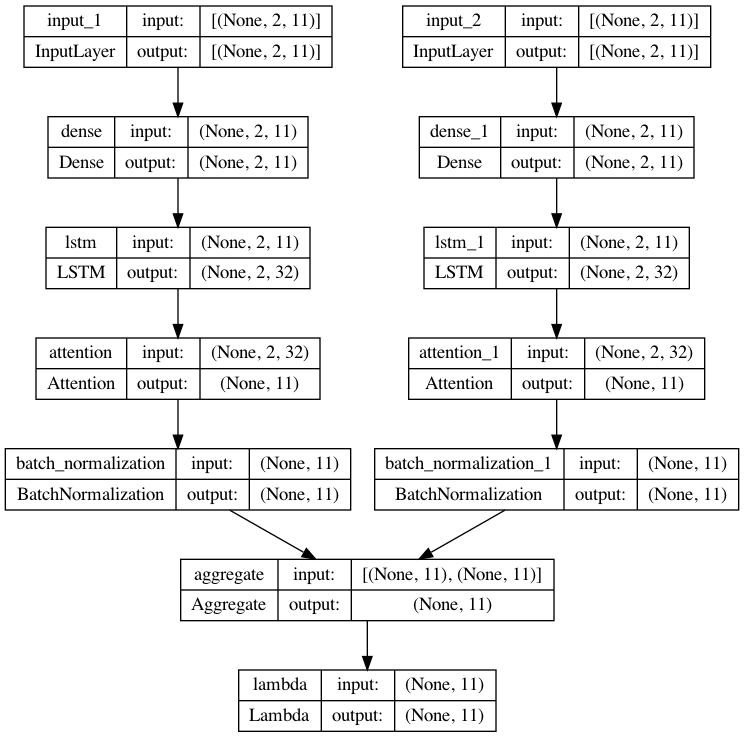
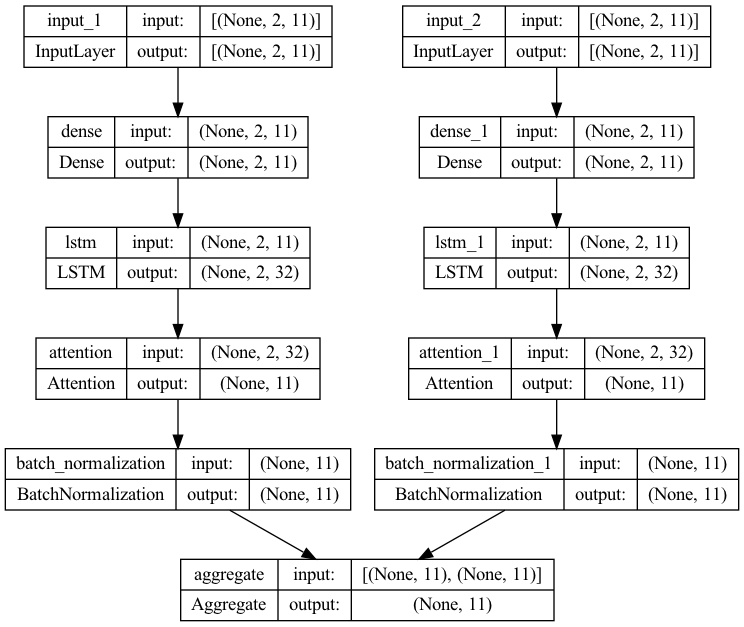
add code for data transformation before data axis context

Changed region(s): [[0.0, 0.0, 1.0, 1.0]]

diff --git a/main4.py b/main4.py
@@ -1,24 +1,24 @@
 from multiprocessing.dummy import active_children
 import os
+from re import I
 import sys
 import logging
 import argparse
 import json
 import pandas as pd
 import numpy as np
-from pkg_resources import add_activation_listener
 
 from keras.layers import Input
 from keras.layers import Dense
 from keras.layers import LSTM
 from keras.layers import BatchNormalization
-from keras.layers import Lambda
+from keras.layers import Lambda, Concatenate, Reshape
 from keras.layers import MultiHeadAttention
-from keras.models import Model
+from keras.models import Model 
 
 from keras.utils.vis_utils import plot_model
 
-from attention import Attention
+from myattention import Attention
 from layers import Aggregate
 from load import load_data, load_cla_data
 
@@ -48,24 +48,16 @@ def train(model):
 def transform_features(features, ticker_size):
     transformed  = np.zeros(params['sample_size'], ticker_size, params['feature_dim'],
                               dtype=np.float32)
-
-    print(features)
     # print(features)
     # context_vector_size = features.shape[1]
     # sampe_size = params['sampe_size']
     # print('sample_size', params['sampe_size'])
-    # for i in range(params['ticker_size']):
-    #     for j in range(params['sample_size']):
-    #         transformed[i, j] = features
-
-
-
-    # for i in range(params['sample_size']):
-    #     stock_context_vector = []
-    #     for j in range(ticker_size, ticker_size):
-    #         temp = features[i+j]
-    #         stock_context_vector.append(temp)
-    #     transformed = np.add(transformed, stock_context_vector)
+    for i in range(params['sample_size']):
+        stock_context_vector = []
+        for j in range(ticker_size, ticker_size):
+            temp = features[i+j]
+            stock_context_vector.append(temp)
+        transformed = np.add(transformed, stock_context_vector)
     return transformed
 
 def construct_model():
@@ -73,24 +65,38 @@ def construct_model():
     stock_input = Input(shape=(args.time_steps, params['feature_dim']))
 
     index_model = time_axis_attention(index_input, params['feature_dim'], args.units)
-    # index_model = Model(inputs=index_input, outputs=index_model)
-    stock_model = time_axis_attention(stock_input, params['feature_dim'], args.units)
-    # stock_model = Model(inputs=stock_input, outputs=stock_model)
 
-    # context_aggregation = Aggregate(params['feature_dim'])([index_model.output, stock_model.output])
-    context_aggregation = Aggregate(params['feature_dim'])([index_model, stock_model])
+    stock_models = [None]*params['ticker_size']
+    context_aggs= [None]*params['ticker_size']
+    context_agg_models = [None]*params['ticker_size']
+    
+    for i in range(params['ticker_size']):
+        stock_models[i] = time_axis_attention(stock_input, params['feature_dim'], args.units)
+        context_aggs[i] = Aggregate(32)([index_model, stock_models[i]])
+        # context_agg_models[i] = Model(inputs=[index_input, stock_input], outputs=context_aggs[i])
+
+    last_context_agg_model = Model(inputs=[index_input, stock_input], outputs=context_aggs[i])
+    plot_model(last_context_agg_model, to_file='contex_agg.png', show_shapes=True, show_layer_names=True)
+    
+    c_model = context_aggs[0]
+    for i in range(1, len(context_agg_models)):
+        c_model = Concatenate()([c_model, context_aggs[i]])
+
+    # Data Transformation to H (d*n)
+    assert(c_model.shape[1] == params['ticker_size']*args.units)
+    print(c_model.shape)
+    # data axis context
+    c_model = Reshape((params['ticker_size'], args.units))(c_model)
+    print(c_model.shape)
+
+    # Data Axis context
+    mha = MultiHeadAttention(num_heads=2, key_dim=2)(c_model)
+    #Nonlinear Transformation.
 
 
-    # transformed = Lambda(transform_features, output_shape=(params['sampe_size'], params['ticker_size'], params['feature_dim']), arguments={'ticker_size':params['ticker_size']})(context_aggregation)
-    # transformed = Lambda(transform_features, arguments={'ticker_size':params['ticker_size']})(context_aggregation)
-
-    # data_axis_attention = MultiHeadAttention()(context_aggregation)
-    # outputs = Dense(1, activation='sigmoid')(data_axis_attention)
-
-    # model = Model(inputs=[index_model.input, stock_model.input], outputs=context_aggregation)
-    model = Model(inputs=[index_input, stock_input], outputs=context_aggregation)
-    model.compile(loss='mae', optimizer='adam')
-    plot_model(model, to_file='model_plot2.png', show_shapes=True, show_layer_names=True)
+    model = mha
+    # model.compile(loss='mae', optimizer='adam')
+    plot_model(model, to_file='model_plot4.png', show_shapes=True, show_layer_names=True)
 
     return model
 
@@ -107,7 +113,7 @@ if __name__ == '__main__':
     parser.add_argument('-p', '--path', help='path of data', type=str,
                         default='./data/kdd17')
     parser.add_argument('-t', '--time_steps', help='length of history', type=int,
-                        default=2)
+                        default=5)
     parser.add_argument('-u', '--units', help='number of hidden units in lstm',
                         type=int, default=32)
     parser.add_argument('-e', '--epochs', help='epochs', type=int, default=5)
@@ -134,7 +140,7 @@ if __name__ == '__main__':
         "feature_dim": 11,
         "ticker_size": 50,
         "batch_size": 2,
-        "sampe_size": 2,
+        "sample_size": 1980,
     }
-    model = construct_model()
-    train(model)
+    construct_model()
+    # train(model)

diff --git a/main3.py b/main3.py
@@ -19,7 +19,7 @@ from keras.models import Model
 
 from keras.utils.vis_utils import plot_model
 
-from attention import Attention
+from myattention import Attention
 from layers import Aggregate
 from load import load_data, load_cla_data
 
@@ -69,19 +69,29 @@ def construct_model():
     index_model = Model(inputs=index_input, outputs=index_model)
 
     stock_models = [None]*params['ticker_size']
-    context_aggregations= [None]*params['ticker_size']
-    time_axis_models = [None]*params['ticker_size']
-
-    transformed = np.empty([params['sample_size'], params['ticker_size']])
-
-    print(transformed)
+    context_aggs= [None]*params['ticker_size']
+    context_agg_models = [None]*params['ticker_size']
+    
     for i in range(params['ticker_size']):
         stock_models[i] = time_axis_attention(stock_input, params['feature_dim'], args.units)
         stock_models[i] = Model(inputs=stock_input, outputs=stock_models[i])
-        context_aggregations[i] = Aggregate(32)([index_model.output, stock_models[i].output])
-        for j in range(params['sample_size']):
-            print(Lambda(lambda x: x[j,:])(context_aggregations[i]))
-            # transformed[j,i] = Lambda(lambda x: x[j,:])(context_aggregations[i])
+        context_aggs[i] = Aggregate(32)([index_model.output, stock_models[i].output])
+        context_agg_models[i] = Model(inputs=index_input, outputs=context_aggs[i])
+
+
+    # for j in range(params['sample_size']):
+    #     for i in range(params['ticker_size']):   
+    #         # print(Lambda(lambda x: x[j,:])(context_aggregations[i]))
+    #         Lambda(lambda x: x[j,:])(context_aggregations[i]) # i stock 1,2,3,4 day j: 1
+    #     # transformed[j,i] = Lambda(lambda x: x[j,:])(context_aggregations[i])
+
+    # for i in range(params['ticker_size']):   
+    #     for j in range(params['sample_size']):
+    #         Lambda(lambda x: x[j,:])(context_aggregations[i])
+
+
+    # data_axis_input = Input(shape=(params['ticker_size'], args.units))
+
 
     # # transformed = Lambda(transform_features, output_shape=(params['sampe_size'], params['ticker_size'], params['feature_dim']), arguments={'ticker_size':params['ticker_size']})(context_aggregation)
     # transformed = Lambda(transform_features, arguments={'ticker_size':params['ticker_size']})(context_aggregation)

diff --git a/multiheadattention.py b/multiheadattention.py
@@ -1,0 +1,47 @@
+class MultiHeadAttention(tf.keras.layers.Layer):
+  def __init__(self, d_model, num_heads):
+    super(MultiHeadAttention, self).__init__()
+    self.num_heads = num_heads
+    self.d_model = d_model
+
+    assert d_model % self.num_heads == 0
+
+    self.depth = d_model // self.num_heads
+
+    self.wq = tf.keras.layers.Dense(d_model)
+    self.wk = tf.keras.layers.Dense(d_model)
+    self.wv = tf.keras.layers.Dense(d_model)
+
+    self.dense = tf.keras.layers.Dense(d_model)
+
+  def split_heads(self, x, batch_size):
+    """Split the last dimension into (num_heads, depth).
+    Transpose the result such that the shape is (batch_size, num_heads, seq_len, depth)
+    """
+    x = tf.reshape(x, (batch_size, -1, self.num_heads, self.depth))
+    return tf.transpose(x, perm=[0, 2, 1, 3])
+
+  def call(self, v, k, q, mask):
+    batch_size = tf.shape(q)[0]
+
+    q = self.wq(q)  # (batch_size, seq_len, d_model)
+    k = self.wk(k)  # (batch_size, seq_len, d_model)
+    v = self.wv(v)  # (batch_size, seq_len, d_model)
+
+    q = self.split_heads(q, batch_size)  # (batch_size, num_heads, seq_len_q, depth)
+    k = self.split_heads(k, batch_size)  # (batch_size, num_heads, seq_len_k, depth)
+    v = self.split_heads(v, batch_size)  # (batch_size, num_heads, seq_len_v, depth)
+
+    # scaled_attention.shape == (batch_size, num_heads, seq_len_q, depth)
+    # attention_weights.shape == (batch_size, num_heads, seq_len_q, seq_len_k)
+    scaled_attention, attention_weights = scaled_dot_product_attention(
+        q, k, v, mask)
+
+    scaled_attention = tf.transpose(scaled_attention, perm=[0, 2, 1, 3])  # (batch_size, seq_len_q, num_heads, depth)
+
+    concat_attention = tf.reshape(scaled_attention,
+                                  (batch_size, -1, self.d_model))  # (batch_size, seq_len_q, d_model)
+
+    output = self.dense(concat_attention)  # (batch_size, seq_len_q, d_model)
+
+    return output, attention_weights

diff --git a/layers.py b/layers.py
@@ -18,7 +18,5 @@ class Aggregate(Layer):
     def call(self, inputs):  # Defines the computation from inputs to outputs
         a = inputs[0]
         b = inputs[1]
-        print(a.shape)
-        print(b.shape)
         return add([tf.matmul(a, self.w), b])
 
